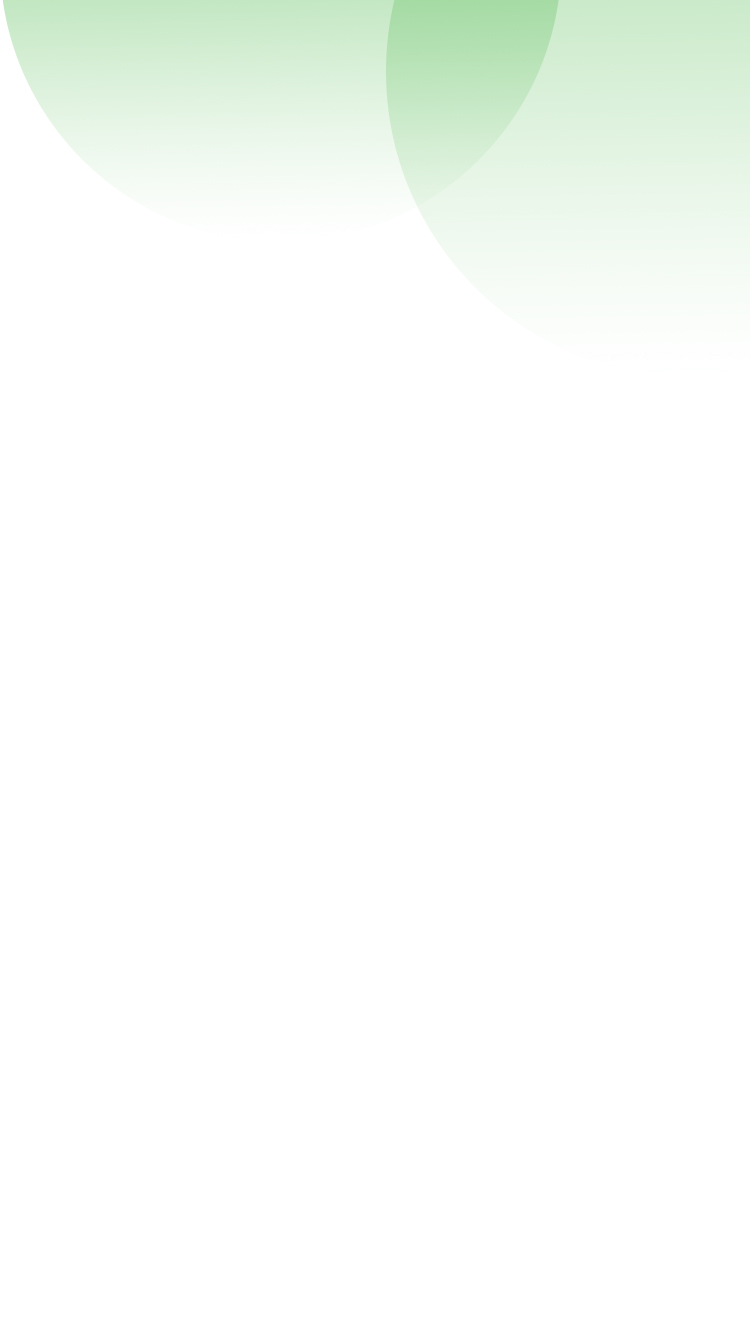
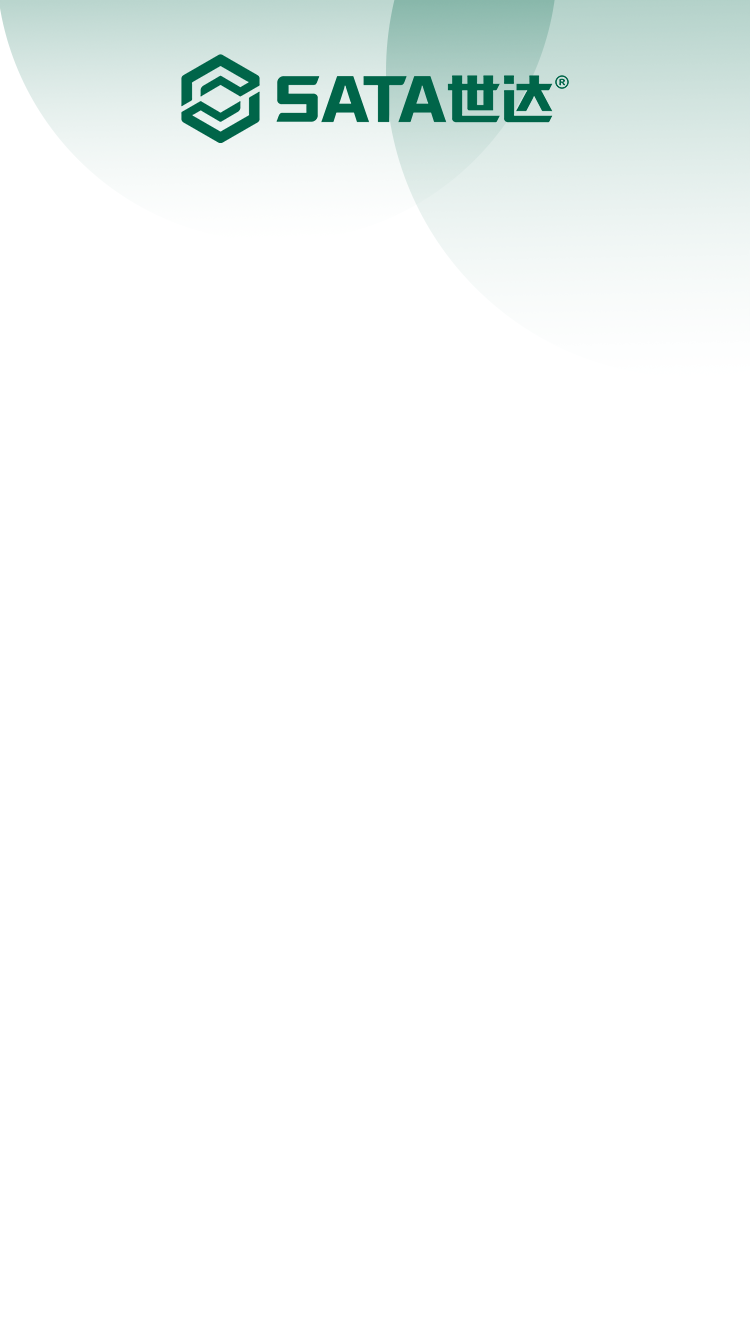
项目改为夏季主题

Changed region(s): [[0.2147, 0.0, 0.7667, 0.1229], [0.0, 0.0, 0.0307, 0.0615], [0.0307, 0.0615, 0.0613, 0.0922]]

diff --git a/src/views/login.vue b/src/views/login.vue
@@ -1,12 +1,17 @@
 <template>
   <div class="login-box">
-    <div class="login-title"></div>
+    <!-- <div class="login-title"></div> -->
     <div class="title">欢迎登录</div>
     <van-field
       v-model="loginForm.f_Mobile"
       type="tel"
       class="telephone"
       placeholder="请输入手机号"
+    />
+    <van-field
+      v-model="loginForm.f_InvitCode"
+      class="telephone"
+      placeholder="请输入宝藏密钥"
     />
     <van-field
       v-model="loginForm.f_Captcha"
@@ -17,21 +22,17 @@
       <template #button>
         <span
           v-show="verification"
-          style="color: #6fc56c"
+          style="color: #026549"
           @click="getVerifyCode"
           >点击获取</span
         >
         <span v-show="!verification"
-          ><span style="color: #6fc56c">{{ timer }}</span
+          ><span style="color: #26654c">{{ timer }}</span
           >秒后重新获取</span
         >
       </template>
     </van-field>
-    <van-field
-      v-model="loginForm.f_InvitCode"
-      class="telephone"
-      placeholder="请输入邀请码"
-    />
+
     <div class="login-btn" @click="clickLogin">确 定</div>
   </div>
 </template>
@@ -107,6 +108,13 @@ export default {
 
         // sessionStorage.setItem('userInfo', JSON.stringify(data.data))
         let isExist = data.data.isExist
+        this.$router.push({
+          path: '/main',
+          query: {
+            f_Mobile: sessionStorage.getItem('mobile'),
+          },
+        })
+        return
         if (isExist) {
           this.$router.push({
             path: '/main',
@@ -151,7 +159,7 @@ export default {
   .login-title {
     width: 250px;
     height: 60px;
-        background: url('../assets/images/login-title.png') no-repeat left center;
+    background: url('../assets/images/login-title.png') no-repeat left center;
     background-size: 70% 150%;
   }
   .title {

diff --git a/src/views/rule.vue b/src/views/rule.vue
@@ -1,7 +1,7 @@
 <template>
   <div class="rule-box">
-    <img src="../assets/images/rule/title.png" alt="title" class="title" />
-    <div class="invote common-border">
+    <!-- <img src="../assets/images/rule/title.png" alt="title" class="title" /> -->
+    <!-- <div class="invote common-border">
       <ul>
         <li>
           1.SATA世达踏青寻宝活动以踏青图形式呈现
@@ -26,7 +26,7 @@
           领奖信息正确，领取后由工作人员3个工作 日内寄出。
         </li>
       </ul>
-    </div>
+    </div> -->
 
     <div class="btn-box">
       <span class="btn" @click="goMain">返回寻宝</span>
@@ -49,11 +49,12 @@ export default {
 .rule-box {
   width: 100%;
   height: 100%;
-  background: url('../assets/images/rule/rule-bg.jpg') no-repeat center center;
+  background: url('../assets/images/rule/rule.jpg') no-repeat center center;
   background-size: 100% 100%;
   // color: #0f644d;
   box-sizing: border-box;
-  padding: 77px 40px 20px;
+  // padding: 77px 40px 20px;
+  position: relative;
   overflow: scroll;
   .title {
     display: block;
@@ -77,15 +78,19 @@ export default {
     box-shadow: 6px 6px 10px #ccc;
   }
   .btn-box {
-    padding: 0 40px;
+    position: fixed;
+    bottom: 10px;
+    left: 50%;
+    transform: translateX(-50%);
     text-align: center;
-    margin-top: 40px;
+
     .btn {
       display: inline-block;
-      width: 90%;
+      // width: 90%;
+      width: 200px;
       height: 50px;
       background: url('../assets/images/rule/btn.png') no-repeat center center;
-  background-size: 100% 100%;
+      background-size: 100% 100%;
       color: #fff;
       border-radius: 14px;
       text-align: center;

diff --git a/src/views/info.vue b/src/views/info.vue
@@ -5,7 +5,7 @@
 -->
 <template>
   <div class="login-box">
-    <div class="login-title"></div>
+    <!-- <div class="login-title"></div> -->
     <div class="title">完善信息</div>
     <van-field
       v-model="loginForm.f_RealName"
@@ -43,7 +43,7 @@
         @cancel="showArea = false"
       />
     </van-popup>
-    <div class="login-btn" @click="clickLogin">立即进入</div>
+    <div class="login-btn" @click="clickLogin">下一步</div>
   </div>
 </template>
 
@@ -75,11 +75,10 @@ export default {
       showPicker: false,
       showArea: false,
       areaList: areaList,
-
     }
   },
   created() {
-    this.loginForm.f_Mobile = this.$route.query.f_Mobile
+    this.loginForm.f_Mobile = sessionStorage.getItem('mobile')
   },
 
   methods: {
@@ -108,9 +107,9 @@ export default {
         const { data } = res
         console.log(data)
         this.$router.push({
-          path: '/main',
+          path: '/address',
           query: {
-            f_Mobile: this.loginForm.f_Mobile,
+            f_Mobile: sessionStorage.getItem('mobile'),
           },
         })
         // sessionStorage.setItem('telephone', this.tel)

diff --git a/src/views/chance.vue b/src/views/chance.vue
@@ -105,7 +105,7 @@ export default {
   width: 100%;
   height: 100%;
   padding: 147px 70px 0;
-  background: url('../assets/images/chance/bg.jpeg') no-repeat center center;
+  background: url('../assets/images/chance/bg.jpg') no-repeat center center;
   background-size: 100% 100%;
   color: #26654c;
   .tip {
@@ -137,14 +137,14 @@ export default {
     }
     .name {
       width: 22px;
-      color: #b55229;
+      color: #323233;
       font-weight: bold;
       display: flex;
       align-items: center;
     }
     .title {
       width: 30px;
-      color: #b55229;
+      color: #323233;
     }
     .my {
       position: absolute;
@@ -154,7 +154,7 @@ export default {
       color: #fff;
     }
     .money {
-      color: #b55229;
+      color: #323233;
       text-align: center;
       margin-bottom: 8px;
       .unit {
@@ -172,9 +172,9 @@ export default {
       padding: 8px 23px;
       top: 133px;
       left: 128px;
-      background: #b55229;
+      // background: #b55229;
       border-radius: 5px;
-      color: #ffffc4;
+      color: #323233;
     }
   }
 

diff --git a/src/views/my.vue b/src/views/my.vue
@@ -194,7 +194,7 @@ export default {
 .my-box {
   width: 100%;
   height: 100%;
-  background: url('../assets/images/my/bg.jpg') no-repeat center center;
+  background: url('../assets/images/my/bg.png') no-repeat center center;
   background-size: 100% 100%;
   color: #000;
   box-sizing: border-box;
@@ -225,7 +225,7 @@ export default {
   .name {
     text-align: center;
     font-size: 26px;
-    color: #0f644c;
+    color: #fff;
     font-weight: bold;
   }
   .not-data {
@@ -288,7 +288,7 @@ export default {
         height: 56px;
         padding: 0 20px;
         box-sizing: border-box;
-        margin-bottom: 20px;
+        margin-bottom: 10px;
         display: flex;
         align-items: center;
         color: #fff;
@@ -396,7 +396,7 @@ export default {
         .yilingqu {
           width: 74px;
           height: 30px;
-          line-height: 30px;
+          // line-height: 30px;
           color: #ffd01e;
           text-align: center;
           margin-right: 12px;

diff --git a/src/views/not-chance.vue b/src/views/not-chance.vue
@@ -90,7 +90,7 @@ export default {
   width: 100%;
   height: 100%;
   padding: 147px 70px 0;
-  background: url('../assets/images/chance/bg.jpeg') no-repeat center center;
+  background: url('../assets/images/chance/bg.jpg') no-repeat center center;
   background-size: 100% 100%;
   color: #26654c;
   .left-box {
@@ -121,14 +121,14 @@ export default {
     }
     .name {
       width: 22px;
-      color: #b55229;
+      color: #323233;
       font-weight: bold;
       display: flex;
       align-items: center;
     }
     .title {
       width: 30px;
-      color: #b55229;
+      color: #323233;
     }
     .my {
       color: #fff;
@@ -137,14 +137,14 @@ export default {
       display: flex;
       padding-left: 7px;
       margin-bottom: 6px;
-      color: #b55229;
+      color: #323233;
       font-weight: bold;
       font-size: 22px;
     }
     .use {
       top: 133px;
       left: 128px;
-      color: #b55229;
+      color: #323233;
     }
   }
   .btn-box {

diff --git a/src/views/list.vue b/src/views/list.vue
@@ -160,7 +160,7 @@ export default {
         this.$router.push({
           path: '/main',
           query: {
-            f_Mobile: this.loginForm.f_Mobile,
+            f_Mobile: sessionStorage.getItem('mobile'),
           },
         })
         // sessionStorage.setItem('telephone', this.tel)
@@ -203,9 +203,9 @@ export default {
     height: 36px;
     line-height: 36px;
     text-align: center;
-    border: 2px solid #40c33b;
+    border: 2px solid #0f644c;
     border-radius: 26px;
-    color: #40c33b;
+    color: #0f644c;
     background: #fff;
     font-weight: bold;
     margin-bottom: 18px;

diff --git a/src/views/share.vue b/src/views/share.vue
@@ -81,7 +81,7 @@ export default {
   .main {
     box-sizing: border-box;
     height: 500px;
-    background: url('../assets/images/share/content.jpeg') no-repeat center
+    background: url('../assets/images/share/content.jpg') no-repeat center
       center;
     background-size: 100% 100%;
     padding-top: 386px;
@@ -96,7 +96,7 @@ export default {
       background-size: 100% 100%;
       margin: 0 auto;
       padding: 20px 15px 10px;
-      color: #dd8174;
+      color: #0f644c;
       img {
         height: 90%;
       }
